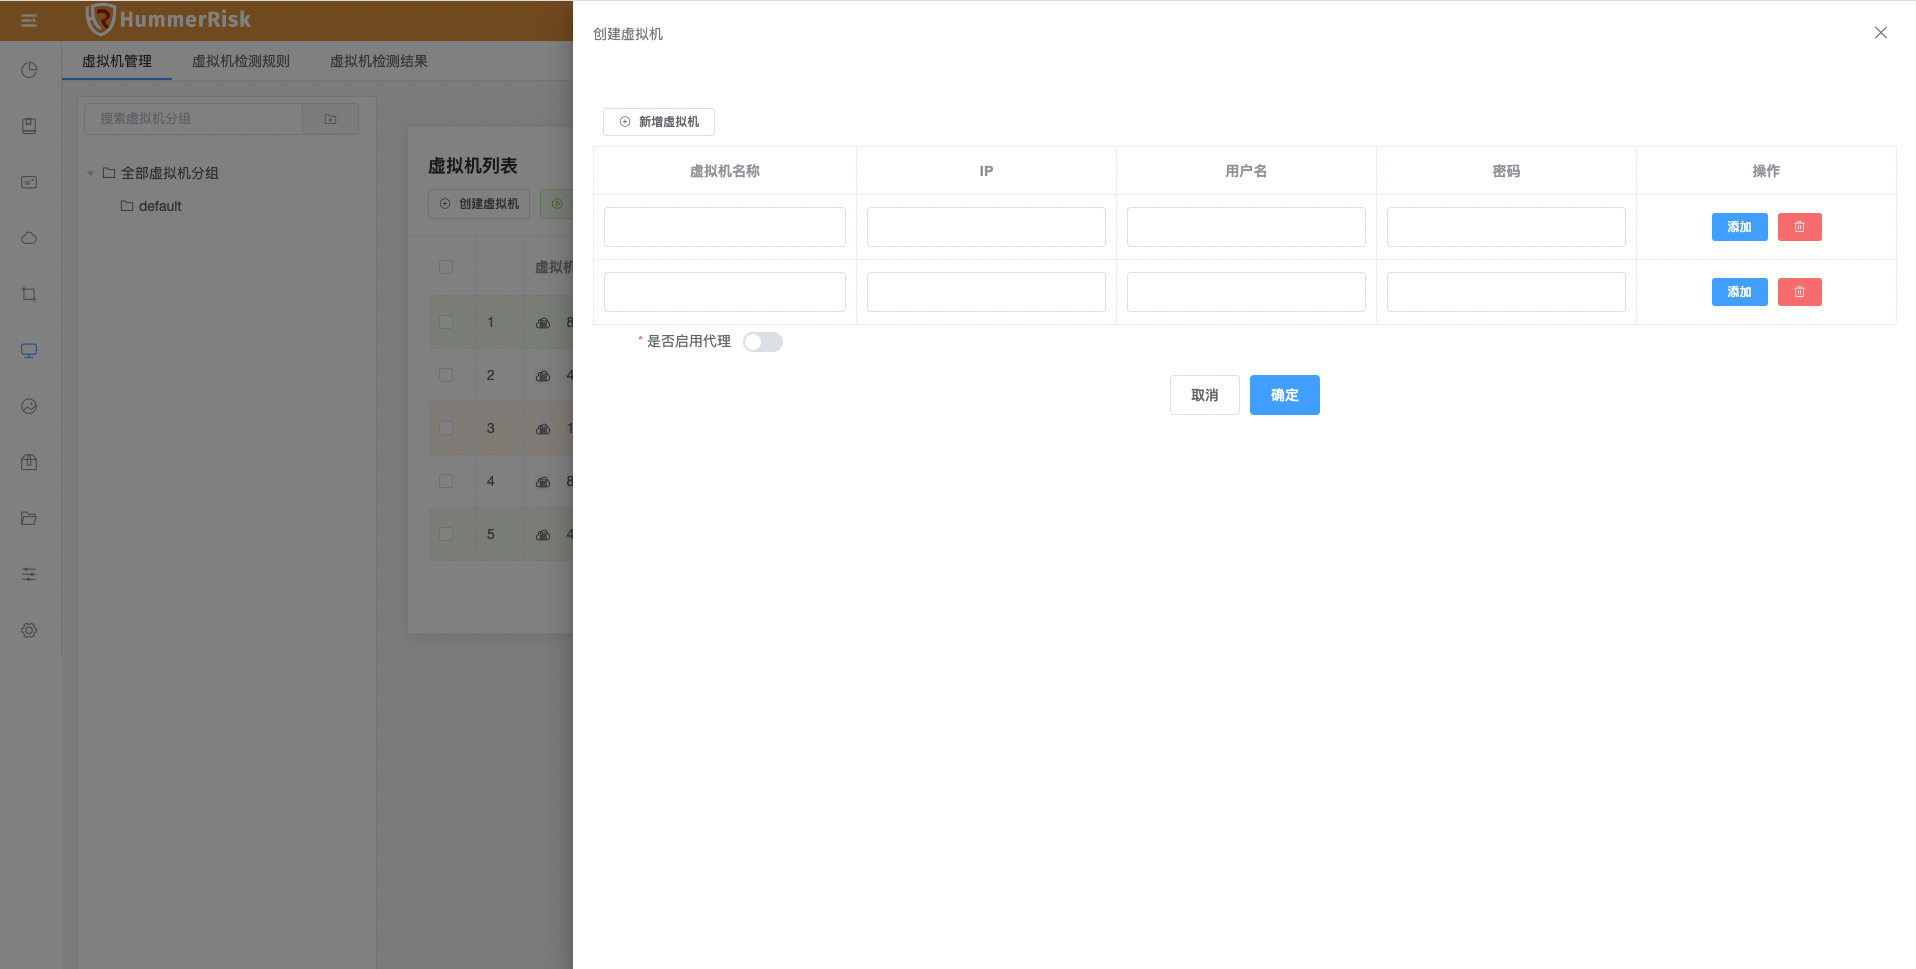
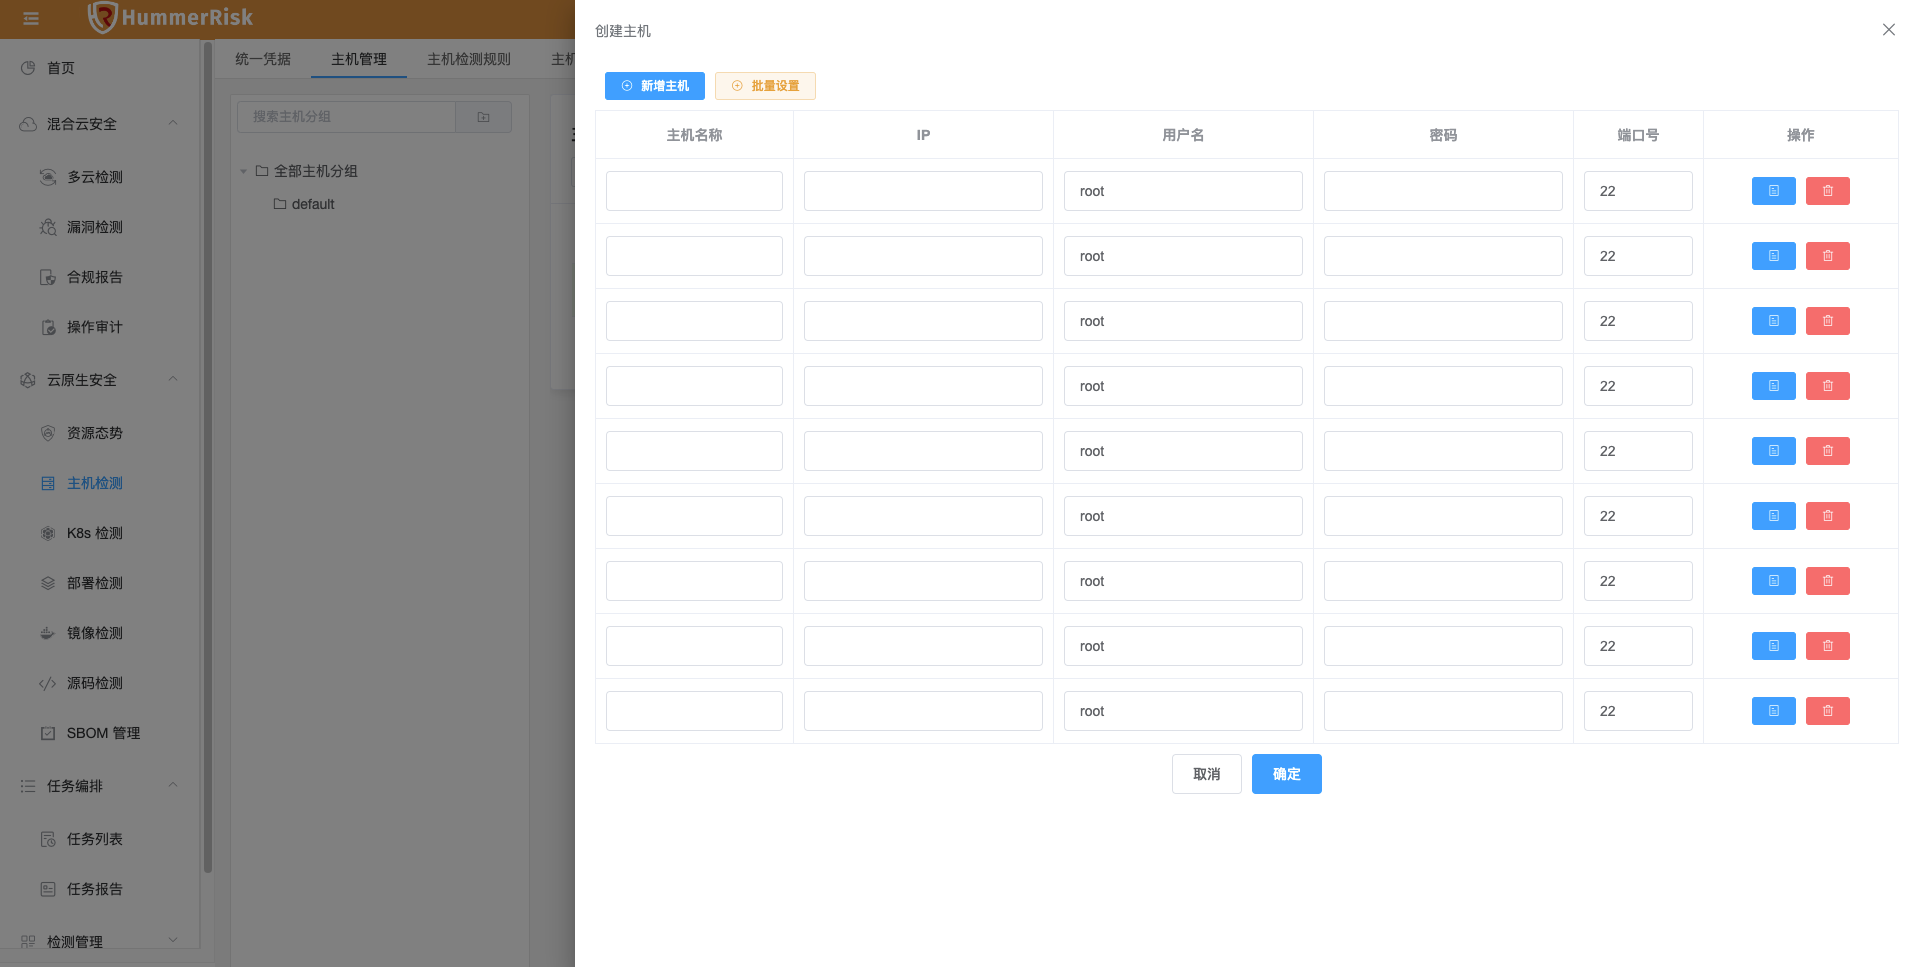
feat(mkdocs): mkdocs

diff --git a/docs/release/release-0.3.2.md b/docs/release/release-0.3.2.md
@@ -1,0 +1,119 @@
+## 1 新功能 Features
+
+### 1.1 首页面板
+
+!!! Abstract ""
+如下图所示，新增首页面板，登录访问直接到面板，可快速进入混合云安全与云原生安全模块。
+
+![首页面板](../img/release/0.3.2/panel.png){ width="900px" }
+
+### 1.2 操作审计
+
+!!! Abstract ""
+如下图所示，新增华为云、腾讯云平台事件日志信息同步，并且按事件的风险等级分类。
+
+![操作审计](../img/release/0.3.2/event.png){ width="900px" }
+![操作审计](../img/release/0.3.2/event2.png){ width="900px" }
+
+### 1.3 统一凭证
+
+!!! Abstract ""
+如下图所示，新增主机认证统一凭证，新建、修改主机信息时，可灵活绑定凭证，凭证由密码或密钥组成。
+
+![主机检测](../img/release/0.3.2/server.png){ width="900px" }
+![主机检测](../img/release/0.3.2/server2.png){ width="900px" }
+![主机检测](../img/release/0.3.2/server3.png){ width="900px" }
+
+### 1.4 检测规则
+
+!!! Abstract ""
+如下图所示，新增云资源检测规则组，符合多场景检测任务，规则组可自由配置绑定检测规则。
+
+![检测规则](../img/release/0.3.2/group.png){ width="900px" }
+![检测规则](../img/release/0.3.2/group2.png){ width="900px" }
+
+## 2 性能优化 Optimization
+
+### 2.1 任务编排
+
+!!! Abstract ""
+新增任务编排类型: K8s 检测和部署检测。
+
+![任务编排](../img/release/0.3.2/task.png){ width="900px" }
+
+### 2.2 首页
+
+!!! Abstract ""
+优化首页Top数据展示，新增 K8s 检测数据和部署检测数据。
+
+### 2.3 检测规则
+
+!!! Abstract ""
+优化检测规则与规则组，新增多条件筛选过滤，规则组可自行绑定规则，内置规则不允许编辑。
+
+### 2.4 检测结果
+
+!!! Abstract ""
+优化检测结果，新增进度条实时展示数据。新增检测结果详情，可多维度查看检测资源信息。
+
+![检测结果](../img/release/0.3.2/result.png){ width="900px" }
+![检测结果](../img/release/0.3.2/result2.png){ width="900px" }
+
+### 2.5 检测结果
+
+!!! Abstract ""
+优化云原生安全检测结果，新增风险等级展示。
+
+![检测结果](../img/release/0.3.1/server4.png){ width="900px" }
+
+### 2.6 菜单栏
+
+!!! Abstract ""
+优化登录侧菜单栏默认展开，并且刷新页面由之前的状态决定，上次是展开刷新依旧展开，反之亦然。
+
+### 2.7 镜像仓库
+
+!!! Abstract ""
+优化镜像仓库类型，新增 Harbor 1.0 版本的同步功能。
+
+### 2.8 镜像检测
+
+!!! Abstract ""
+优化检测结果，去除无效的 unfixed 结果。
+
+## 3 Bug修复 Bug Fixes
+
+### 3.1 镜像管理
+
+!!! Abstract ""
+修复镜像异步上传tar包报错我问题。
+
+### 3.2 镜像检测
+
+!!! Abstract ""
+去除grype类型镜像检测，只保留trivy，去除dependency-check软件包检测。
+
+### 3.3 主机检测
+
+!!! Abstract ""
+修复新增主机不支持添加密钥的问题。
+
+### 3.4 源码检测
+
+!!! Abstract ""
+修复源码检测页面弹出空指针错误。
+
+### 3.5 一键检测
+
+!!! Abstract ""
+修复云资源一键检测选择规则组后页面等待时间过长的问题。
+
+### 3.6 镜像检测
+
+!!! Abstract ""
+修复镜像绑定页面，字段过长不折行的问题。
+
+### 3.7 镜像仓库
+
+!!! Abstract ""
+修复镜像仓库同步的镜像列表，某些字段为空的问题。

diff --git a/docs/about/changelog.md b/docs/about/changelog.md
@@ -1,5 +1,34 @@
 # 更新日志
 
+v0.3.2
+------------------------
+2022年09月22日
+
+!!! info "🌱 新功能 Features"
+- feat（首页面板）：新增首页面板，登录访问直接到面板，可快速进入混合云安全与云原生安全模块。
+- feat（操作审计）：新增华为云、腾讯云平台事件日志信息同步，并且按事件的风险等级分类。
+- feat（统一凭证）：新增主机认证统一凭证，新建、修改主机信息时，可灵活绑定凭证，凭证由密码或密钥组成。
+- feat（检测规则）：新增云资源检测规则组，符合多场景检测任务，规则组可自由配置检测规则。
+
+!!! summary "🚀 性能优化 Optimization"
+- refactor（任务编排）：新增任务编排类型: K8s 检测和部署检测。
+- refactor（首页）：优化首页Top数据展示，新增 K8s 检测数据和部署检测数据。
+- refactor（检测规则）：优化检测规则与规则组，新增多条件筛选过滤，规则组可自行绑定规则，内置规则不允许编辑。
+- refactor（检测结果）：优化检测结果，新增进度条实时展示数据。新增检测结果详情，可多维度查看检测资源信息。
+- refactor（检测结果）：优化云原生安全检测结果，新增风险等级展示。
+- refactor（菜单栏）：优化登录侧菜单栏默认展开，并且刷新页面由之前的状态决定，上次是展开刷新依旧展开，反之亦然。
+- refactor（镜像仓库）：优化镜像仓库类型，新增 Harbor 1.0 版本的同步功能。
+- refactor（镜像检测）：优化检测结果，去除无效的 unfixed 结果。
+
+!!! success "🐛 Bug修复 Bug Fixes"
+- fix（镜像管理）：修复镜像异步上传tar包报错我问题。
+- fix（镜像检测）：去除grype类型镜像检测，只保留trivy，去除dependency-check软件包检测。
+- fix（主机检测）：修复新增主机不支持添加密钥的问题。
+- fix（源码检测）：修复源码检测页面弹出空指针错误。
+- fix（一键检测）：修复云资源一键检测选择规则组后页面等待时间过长的问题。
+- fix（镜像检测）：修复镜像绑定页面，字段过长不折行的问题。
+- fix（镜像仓库）：修复镜像仓库同步的镜像列表，某些字段为空的问题。
+
 v0.3.1
 ------------------------
 2022年09月13日

diff --git a/docs/user/server.md b/docs/user/server.md
@@ -1,22 +1,30 @@
-### 虚拟机管理
+### 统一凭证
 
-> 虚拟机管理列表页面提供了对虚拟机分组、虚拟机的创建、删除、编辑、查找、校验、检测等操作。
+如下图所示，新增主机认证统一凭证，新建、修改主机信息时，可灵活绑定凭证，凭证由密码或密钥组成。
 
-![虚拟机管理](../img/user/server.png)
+![主机检测](../img/release/0.3.2/server.png){ width="900px" }
+![主机检测](../img/release/0.3.2/server2.png){ width="900px" }
+![主机检测](../img/release/0.3.2/server3.png){ width="900px" }
 
-> 新增虚拟机信息（可批量）。虚拟机可绑定代理。
+### 主机管理
 
-![虚拟机管理](../img/user/server_add.png)
+> 主机管理列表页面提供了对主机分组、主机的创建、删除、编辑、查找、校验、检测等操作。
 
-### 虚拟机检测规则
+![主机管理](../img/user/server.png)
 
-> 虚拟机检测规则列表页面，可以添加、修改、查看所有虚拟机检测规则。
+> 新增主机信息（可批量）。主机可绑定代理。
 
-![虚拟机检测规则](../img/user/server_rule.png)
+![主机管理](../img/user/server_add.png)
 
-### 虚拟机检测结果
+### 主机检测规则
 
-> 虚拟机检测结果列表页面，可以查看所有虚拟机检测结果。
+> 主机检测规则列表页面，可以添加、修改、查看所有主机检测规则。
 
-> ![虚拟机检测结果](../img/user/server_result.png)
+![主机检测规则](../img/user/server_rule.png)
+
+### 主机检测结果
+
+> 主机检测结果列表页面，可以查看所有主机检测结果。
+
+> ![主机检测结果](../img/user/server_result.png)
 

diff --git a/docs/user/process.md b/docs/user/process.md
@@ -8,21 +8,25 @@
 
     检测规则 -> 规则标签 -> 规则组 -> 风险条例
 
-    云资源配置 -> 云资源检测规则 -> 云资源检测结果 -> 合规统计
+    云资源配置 -> 云资源检测规则 -> 云资源检测结果 -> 合规报告
 
-    漏洞配置 -> 漏洞检测规则 -> 漏洞检测结果
+    漏洞配置 -> 漏洞检测规则 -> 漏洞检测结果 -> 合规报告
 
-    虚拟机配置 -> 虚拟机检测规则 -> 虚拟机检测结果
+    主机配置 -> 主机检测规则 -> 主机检测结果
 
-    软件包配置 -> 软件包检测规则 -> 软件包检测结果
+    K8s 配置 -> K8s 检测结果
 
-    镜像配置 -> 镜像检测规则 -> 镜像检测结果
+    部署配置 -> 部署配置检测结果
+
+    镜像配置 -> 镜像检测结果(绑定SBOM) -> SBOM 分析下载报告
+
+    源码配置 -> 源码检测结果(绑定SBOM) -> SBOM 分析下载报告
 
     任务编排 -> 多种检测规则自由搭配 -> 基于任务的检测结果 -> 任务分析
 
 ### 主菜单
 
-![主菜单](../img/user/menu.png)
+![主菜单](../img/user/panel.png)
 
 ### 登录
 

diff --git a/docs/user/dashboard.md b/docs/user/dashboard.md
@@ -1,4 +1,10 @@
-> 首页概况性展示了检测结果的核心信息。首页分为总览、分析、活动记录三个页面，默认显示概览页面。
+> 首页概况性展示了检测结果的核心信息。首页分为面板、总览、分析、活动记录等页面，默认显示概览页面。
+
+### 面板
+
+> 首页面板，登录访问直接到面板，可快速进入混合云安全与云原生安全模块。
+
+![面板](../img/release/0.3.2/panel.png)
 
 ### 总览
 

diff --git a/docs/about/download.md b/docs/about/download.md
@@ -10,4 +10,4 @@
 
 
 !!! tip ""
-    - [v0.3.1下载链接：hummerrisk-offline-installer-v0.3.1.tar.gz](https://company.hummercloud.com/offline-package/hummerrisk/x86_64/hummerrisk-offline-installer-v0.3.1.tar.gz)
+    - [v0.3.2下载链接：hummerrisk-offline-installer-v0.3.2.tar.gz](https://company.hummercloud.com/offline-package/hummerrisk/x86_64/hummerrisk-offline-installer-v0.3.2.tar.gz)

diff --git a/docs/user/event.md b/docs/user/event.md
@@ -8,6 +8,6 @@
 
 > 根据云账号、区域、日期范围等条件查询云事件。
 
-![云事件](../img/user/event_log.png)
+![云事件](../img/release/0.3.2/event2.png)
 
 
